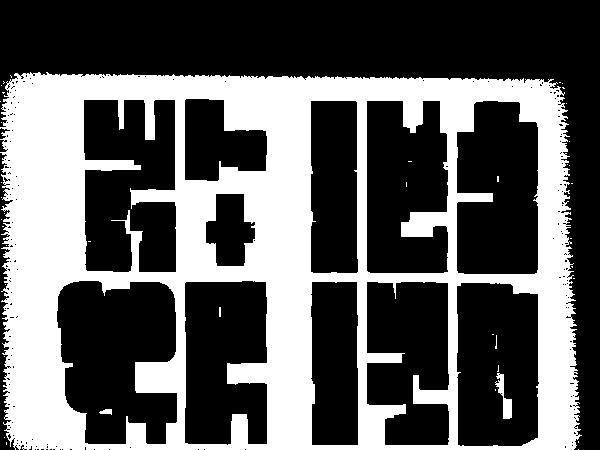
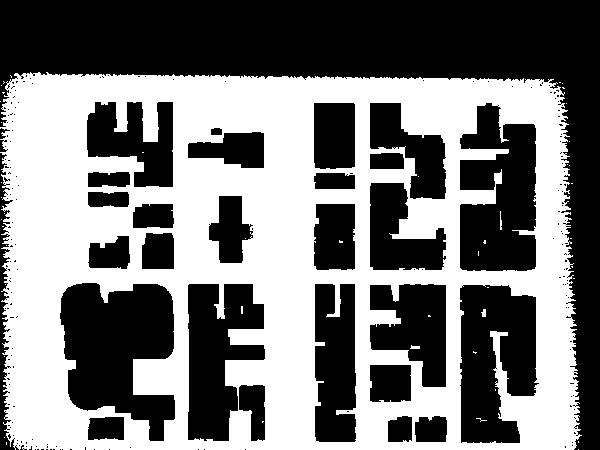
Tehe

diff --git a/AlgoStuff/TwoDroneSTLtoOMap.m b/AlgoStuff/TwoDroneSTLtoOMap.m
@@ -161,7 +161,7 @@ while Scenario.IsRunning && counter < 10000
 end
 toc
 
-inflate(map3D,2.5)
+inflate(map3D,5)
 
 % Display completion message
 disp('Two drones STL to Occupancy map completed!')

diff --git a/AlgoStuff/RunAll.m b/AlgoStuff/RunAll.m
@@ -7,4 +7,4 @@ Astar;
 Simulation;
 
 %open_system("DroneProto.slx")
-"Full suite processed."
+disp("Full suite processed.")

diff --git a/AlgoStuff/Simulation.m b/AlgoStuff/Simulation.m
@@ -48,7 +48,7 @@ hold on
 
 
 % Proportional Gains
-Px =91;
+Px = 91;
 Py = 91;
 Pz = 91;
 
